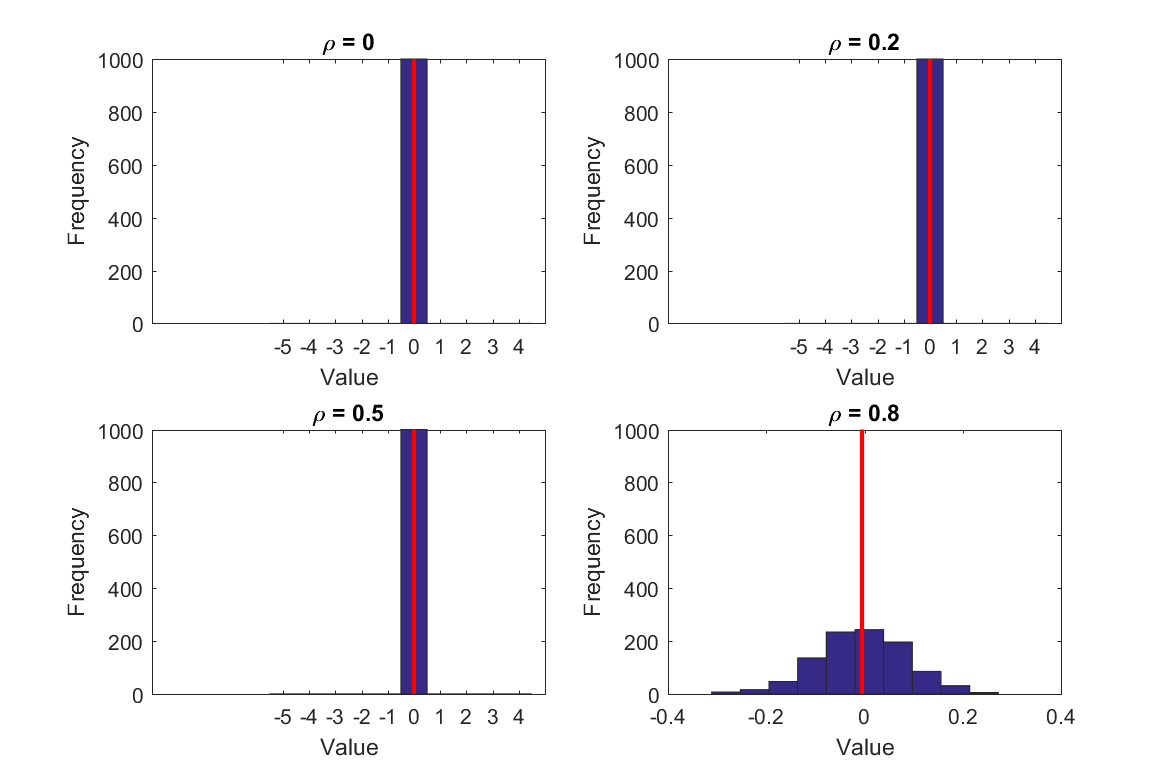
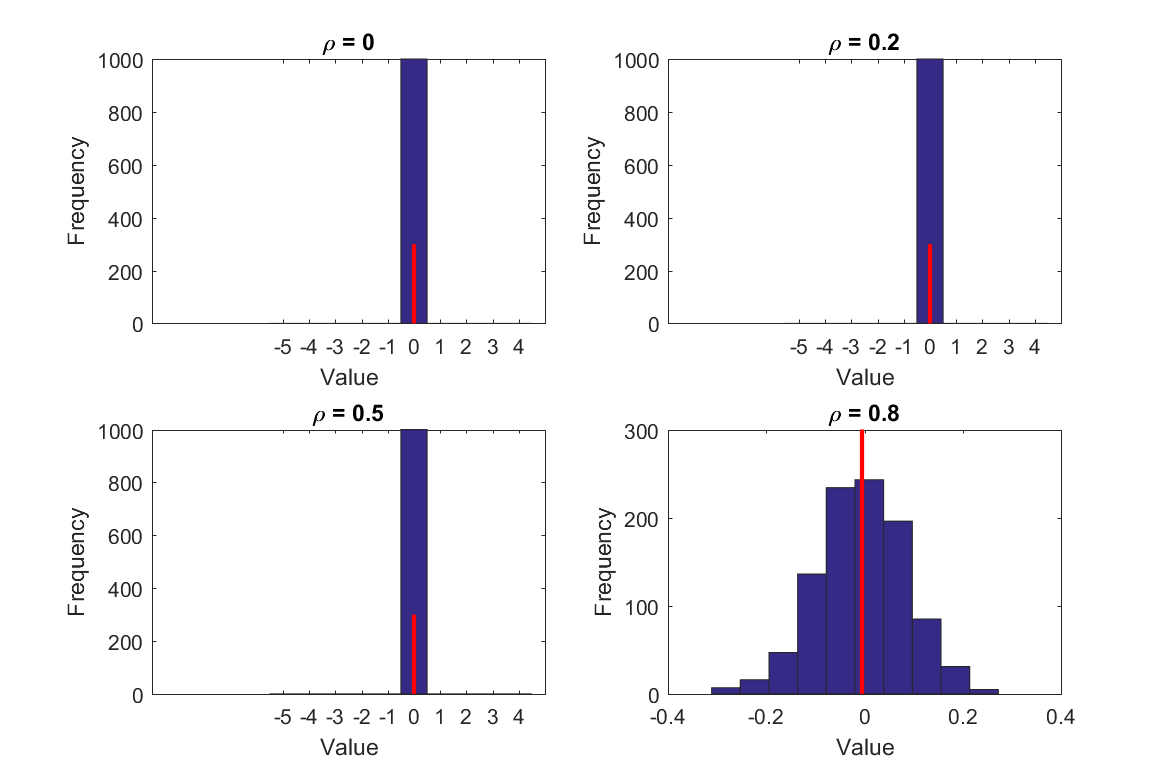
test stat distributions

diff --git a/MATLAB_codes/ewpo_testing_test_stat_histogram.m b/MATLAB_codes/ewpo_testing_test_stat_histogram.m
@@ -19,7 +19,7 @@ abs = ''; %'_Abs';
 %%
 % (alpha_OLS-alpha_EWPO)
 % sample sizes
-sample_size_list = [10, 50, 100, 500, 500];
+sample_size_list = [10, 50, 100, 500, 1000];
 for index = 1:length(sample_size_list)
 filename = strcat('ewpo_testing_fullpairwise',sorted,'_Unif_diff_alpha_version_',version,abs,'_deltax_T_',num2str(sample_size_list(index)),'_',req_date);
 %filename=sprintf('Unif_tstat_deltax_T_%d_09-Apr-2023',sample_size_list(index));
@@ -42,14 +42,14 @@ else
     weight_text = '|\Delta x|';
 end
 
-title_name = strcat('(\Alpha_OLS-\Alpha_EWPO) distribution, DGP = U(-2,3), estimator: full pairwise, ',sorted_text,' version ',version, weight_text);
+title_name = strcat('(\Alpha_OLS-\Alpha_EWPO) distribution, DGP = U(-2,3), estimator: full pairwise, ',sorted_text,' version: ',version,'  ', weight_text);
 title(title_name);
 %title(' distribution, DGP = U(-2,3), estimator: full pairwise, weights = \Delta x')
 % figure parameetrs
 x0=10;
 y0=10;
 width=750;
-height=500;
+height = 500;
 set(f,'position',[x0,y0,width,height])
 
 % corr(x,u) = 0
@@ -58,7 +58,7 @@ f(1)=subplot(2,2,1);
 hist(st.x(1,:))
 hold on;
 % add mean value
-line([mean(st.x(1,:)), mean(st.x(1,:))], [0 500], 'LineWidth', 2, 'Color', 'r');
+line([mean(st.x(1,:)), mean(st.x(1,:))], [0 300], 'LineWidth', 2, 'Color', 'r');
 % add title and labels
 title(f(1),'\rho = 0')
 xlabel(f(1),'Value')
@@ -71,7 +71,7 @@ f(2)=subplot(2,2,2);
 hist(st.x(2,:))
 hold on;
 % add mean value
-line([mean(st.x(2,:)), mean(st.x(2,:))], [0 500], 'LineWidth', 2, 'Color', 'r');
+line([mean(st.x(2,:)), mean(st.x(2,:))], [0 300], 'LineWidth', 2, 'Color', 'r');
 % add title and labels
 title(f(2),'\rho = 0.2')
 xlabel(f(2),'Value')
@@ -82,7 +82,7 @@ hold off;
 f(3)=subplot(2,2,3);
 hist(st.x(3,:))
 hold on;
-line([mean(st.x(3,:)), mean(st.x(3,:))], [0 500], 'LineWidth', 2, 'Color', 'r');
+line([mean(st.x(3,:)), mean(st.x(3,:))], [0 300], 'LineWidth', 2, 'Color', 'r');
 title(f(3),'\rho = 0.5')
 xlabel(f(3),'Value')
 ylabel(f(3),'Frequency')
@@ -94,7 +94,7 @@ f(4)=subplot(2,2,4);
 hist(st.x(4,:))
 hold on;
 % add mean value
-line([mean(st.x(4,:)), mean(st.x(4,:))], [0 500], 'LineWidth', 2, 'Color', 'r');
+line([mean(st.x(4,:)), mean(st.x(4,:))], [0 300], 'LineWidth', 2, 'Color', 'r');
 % add title and labels
 title(f(4),'\rho = 0.8')
 xlabel(f(4),'Value')
@@ -139,14 +139,14 @@ else
     weight_text = '|\Delta x|';
 end
 
-title_name = strcat('(\Alpha_OLS-\Alpha_EWPO)^2 distribution, DGP = U(-2,3), estimator: full pairwise, ',sorted_text,' version ',version, weight_text);
+title_name = strcat('(\Alpha_OLS-\Alpha_EWPO)^2 distribution, DGP = U(-2,3), estimator: full pairwise, ',sorted_text,' version ',version,'  ', weight_text);
 title(title_name);
 %title(' distribution, DGP = U(-2,3), estimator: full pairwise, weights = \Delta x')
 % figure parameetrs
 x0=10;
 y0=10;
 width=750;
-height=500;
+height = 500;
 set(f,'position',[x0,y0,width,height])
 
 % corr(x,u) = 0
@@ -155,7 +155,7 @@ f(1)=subplot(2,2,1);
 hist(st.x(1,:))
 hold on;
 % add mean value
-line([mean(st.x(1,:)), mean(st.x(1,:))], [0 500], 'LineWidth', 2, 'Color', 'r');
+line([mean(st.x(1,:)), mean(st.x(1,:))], [0 300], 'LineWidth', 2, 'Color', 'r');
 % add title and labels
 title(f(1),'\rho = 0')
 xlabel(f(1),'Value')
@@ -168,7 +168,7 @@ f(2)=subplot(2,2,2);
 hist(st.x(2,:))
 hold on;
 % add mean value
-line([mean(st.x(2,:)), mean(st.x(2,:))], [0 500], 'LineWidth', 2, 'Color', 'r');
+line([mean(st.x(2,:)), mean(st.x(2,:))], [0 300], 'LineWidth', 2, 'Color', 'r');
 % add title and labels
 title(f(2),'\rho = 0.2')
 xlabel(f(2),'Value')
@@ -179,7 +179,7 @@ hold off;
 f(3)=subplot(2,2,3);
 hist(st.x(3,:))
 hold on;
-line([mean(st.x(3,:)), mean(st.x(3,:))], [0 500], 'LineWidth', 2, 'Color', 'r');
+line([mean(st.x(3,:)), mean(st.x(3,:))], [0 300], 'LineWidth', 2, 'Color', 'r');
 title(f(3),'\rho = 0.5')
 xlabel(f(3),'Value')
 ylabel(f(3),'Frequency')
@@ -191,7 +191,7 @@ f(4)=subplot(2,2,4);
 hist(st.x(4,:))
 hold on;
 % add mean value
-line([mean(st.x(4,:)), mean(st.x(4,:))], [0 500], 'LineWidth', 2, 'Color', 'r');
+line([mean(st.x(4,:)), mean(st.x(4,:))], [0 300], 'LineWidth', 2, 'Color', 'r');
 % add title and labels
 title(f(4),'\rho = 0.8')
 xlabel(f(4),'Value')
@@ -236,14 +236,14 @@ else
     weight_text = '|\Delta x|';
 end
 
-title_name = strcat('(\Alpha_OLS-\Alpha_EWPO)^2 distribution, DGP = U(-2,3), estimator: full pairwise, ',sorted_text,' version ',version, weight_text);
+title_name = strcat('(\Alpha_OLS-\Alpha_EWPO)^2 distribution, DGP = U(-2,3), estimator: full pairwise, ',sorted_text,' version ',version,'  ', weight_text);
 title(title_name);
 %title(' distribution, DGP = U(-2,3), estimator: full pairwise, weights = \Delta x')
 % figure parameetrs
 x0=10;
 y0=10;
 width=750;
-height=500;
+height = 500;
 set(f,'position',[x0,y0,width,height])
 
 % corr(x,u) = 0
@@ -252,7 +252,7 @@ f(1)=subplot(2,2,1);
 hist(st.x(1,:))
 hold on;
 % add mean value
-line([mean(st.x(1,:)), mean(st.x(1,:))], [0 500], 'LineWidth', 2, 'Color', 'r');
+line([mean(st.x(1,:)), mean(st.x(1,:))], [0 300], 'LineWidth', 2, 'Color', 'r');
 % add title and labels
 title(f(1),'\rho = 0')
 xlabel(f(1),'Value')
@@ -265,7 +265,7 @@ f(2)=subplot(2,2,2);
 hist(st.x(2,:))
 hold on;
 % add mean value
-line([mean(st.x(2,:)), mean(st.x(2,:))], [0 500], 'LineWidth', 2, 'Color', 'r');
+line([mean(st.x(2,:)), mean(st.x(2,:))], [0 300], 'LineWidth', 2, 'Color', 'r');
 % add title and labels
 title(f(2),'\rho = 0.2')
 xlabel(f(2),'Value')
@@ -276,7 +276,7 @@ hold off;
 f(3)=subplot(2,2,3);
 hist(st.x(3,:))
 hold on;
-line([mean(st.x(3,:)), mean(st.x(3,:))], [0 500], 'LineWidth', 2, 'Color', 'r');
+line([mean(st.x(3,:)), mean(st.x(3,:))], [0 300], 'LineWidth', 2, 'Color', 'r');
 title(f(3),'\rho = 0.5')
 xlabel(f(3),'Value')
 ylabel(f(3),'Frequency')
@@ -288,7 +288,7 @@ f(4)=subplot(2,2,4);
 hist(st.x(4,:))
 hold on;
 % add mean value
-line([mean(st.x(4,:)), mean(st.x(4,:))], [0 500], 'LineWidth', 2, 'Color', 'r');
+line([mean(st.x(4,:)), mean(st.x(4,:))], [0 300], 'LineWidth', 2, 'Color', 'r');
 % add title and labels
 title(f(4),'\rho = 0.8')
 xlabel(f(4),'Value')
@@ -333,14 +333,14 @@ else
     weight_text = '|\Delta x|';
 end
 
-title_name = strcat('(\Alpha_OLS-\Alpha_EWPO)^2 distribution, DGP = U(-2,3), estimator: full pairwise, ',sorted_text,' version ',version, weight_text);
+title_name = strcat('(\Alpha_OLS-\Alpha_EWPO)^2 distribution, DGP = U(-2,3), estimator: full pairwise, ',sorted_text,' version ',version,'  ', weight_text);
 title(title_name);
 %title(' distribution, DGP = U(-2,3), estimator: full pairwise, weights = \Delta x')
 % figure parameetrs
 x0=10;
 y0=10;
 width=750;
-height=500;
+height = 500;
 set(f,'position',[x0,y0,width,height])
 
 % corr(x,u) = 0
@@ -349,7 +349,7 @@ f(1)=subplot(2,2,1);
 hist(st.x(1,:))
 hold on;
 % add mean value
-line([mean(st.x(1,:)), mean(st.x(1,:))], [0 500], 'LineWidth', 2, 'Color', 'r');
+line([mean(st.x(1,:)), mean(st.x(1,:))], [0 300], 'LineWidth', 2, 'Color', 'r');
 % add title and labels
 title(f(1),'\rho = 0')
 xlabel(f(1),'Value')
@@ -362,7 +362,7 @@ f(2)=subplot(2,2,2);
 hist(st.x(2,:))
 hold on;
 % add mean value
-line([mean(st.x(2,:)), mean(st.x(2,:))], [0 500], 'LineWidth', 2, 'Color', 'r');
+line([mean(st.x(2,:)), mean(st.x(2,:))], [0 300], 'LineWidth', 2, 'Color', 'r');
 % add title and labels
 title(f(2),'\rho = 0.2')
 xlabel(f(2),'Value')
@@ -373,7 +373,7 @@ hold off;
 f(3)=subplot(2,2,3);
 hist(st.x(3,:))
 hold on;
-line([mean(st.x(3,:)), mean(st.x(3,:))], [0 500], 'LineWidth', 2, 'Color', 'r');
+line([mean(st.x(3,:)), mean(st.x(3,:))], [0 300], 'LineWidth', 2, 'Color', 'r');
 title(f(3),'\rho = 0.5')
 xlabel(f(3),'Value')
 ylabel(f(3),'Frequency')
@@ -385,7 +385,7 @@ f(4)=subplot(2,2,4);
 hist(st.x(4,:))
 hold on;
 % add mean value
-line([mean(st.x(4,:)), mean(st.x(4,:))], [0 500], 'LineWidth', 2, 'Color', 'r');
+line([mean(st.x(4,:)), mean(st.x(4,:))], [0 300], 'LineWidth', 2, 'Color', 'r');
 % add title and labels
 title(f(4),'\rho = 0.8')
 xlabel(f(4),'Value')
